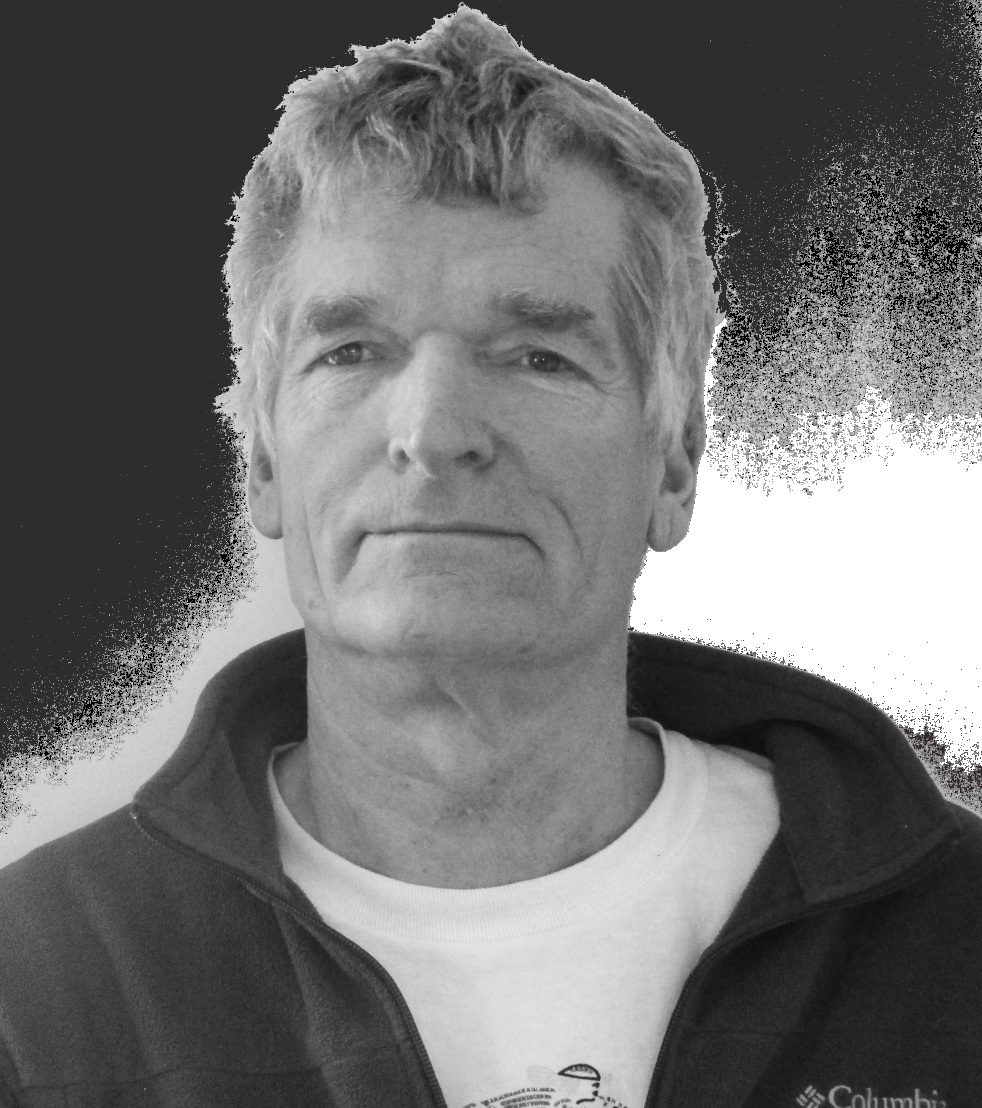
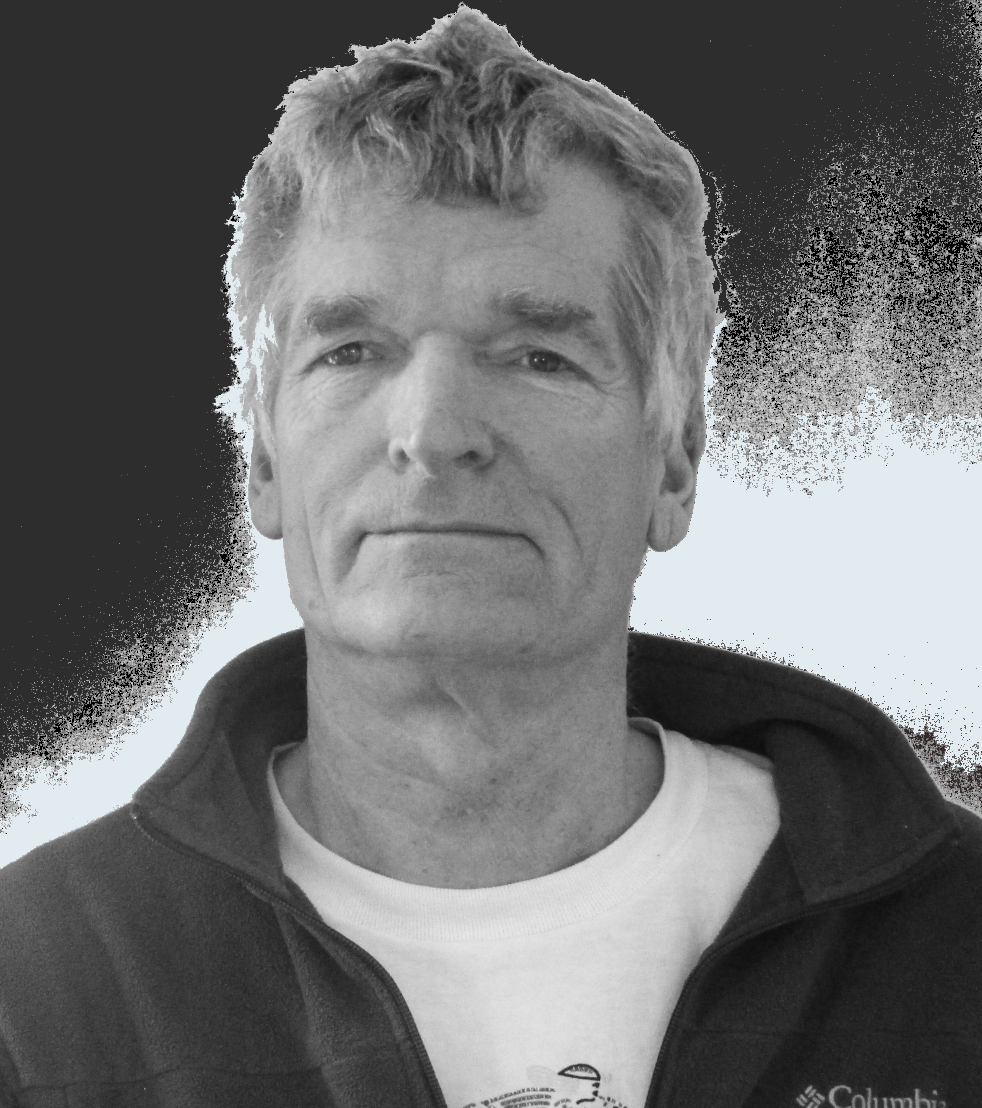
modified:   contact.html 	modified:   css/style.css 	modified:   images/avatar_smoke.jpg 	modified:   images/man_smoke.jpg 	modified:   index.html 	modified:   martin.html 	modified:   password.html 	modified:   photos.html

Changed region(s): [[0.6415, 0.3069, 1.0, 0.7058], [0.0, 0.1841, 0.3055, 0.7978]]

diff --git a/contact.html b/contact.html
@@ -44,11 +44,11 @@
     </div>
     <!-- Navbar (visible on small screens) -->
     <div class="navbar">
-        <a href="#home">accueil</a>
-        <a href="martin.html">martin</a>
-        <a href="photos.html">photos</a>
-        <a href="contact.html">contact</a>
-        <a href="password.html">vidéos</a>
+        <a href="index.html#home">accueil</a>
+        <a href="martin.html#about">martin</a>
+        <a href="photos.html#photos">photos</a>
+        <a href="contact.html#contact">contact</a>
+        <a href="password.html#password">vidéos</a>
     </div>
 
     <!-- start home -->

diff --git a/index.html b/index.html
@@ -44,11 +44,11 @@
     </div>
     <!-- Navbar (visible on small screens) -->
     <div class="navbar">
-        <a href="#home">accueil</a>
-        <a href="martin.html">martin</a>
-        <a href="photos.html">photos</a>
-        <a href="contact.html">contact</a>
-        <a href="password.html">vidéos</a>
+        <a href="index.html#home">accueil</a>
+        <a href="martin.html#about">martin</a>
+        <a href="photos.html#photos">photos</a>
+        <a href="contact.html#contact">contact</a>
+        <a href="password.html#password">vidéos</a>
     </div>
 
     <!-- start home -->

diff --git a/martin.html b/martin.html
@@ -44,11 +44,11 @@
     </div>
     <!-- Navbar (visible on small screens) -->
     <div class="navbar">
-        <a href="#home">accueil</a>
-        <a href="martin.html">martin</a>
-        <a href="photos.html">photos</a>
-        <a href="contact.html">contact</a>
-        <a href="password.html">vidéos</a>
+        <a href="index.html#home">accueil</a>
+        <a href="martin.html#about">martin</a>
+        <a href="photos.html#photos">photos</a>
+        <a href="contact.html#contact">contact</a>
+        <a href="password.html#password">vidéos</a>
     </div>
 
     <!-- start home -->

diff --git a/password.html b/password.html
@@ -44,11 +44,11 @@
     </div>
     <!-- Navbar (visible on small screens) -->
     <div class="navbar">
-        <a href="#home">accueil</a>
-        <a href="martin.html">martin</a>
-        <a href="photos.html">photos</a>
-        <a href="contact.html">contact</a>
-        <a href="password.html">vidéos</a>
+        <a href="index.html#home">accueil</a>
+        <a href="martin.html#about">martin</a>
+        <a href="photos.html#photos">photos</a>
+        <a href="contact.html#contact">contact</a>
+        <a href="password.html#password">vidéos</a>
     </div>
 
     <!-- start home -->

diff --git a/photos.html b/photos.html
@@ -44,11 +44,11 @@
     </div>
     <!-- Navbar (visible on small screens) -->
     <div class="navbar">
-        <a href="#home">accueil</a>
-        <a href="martin.html">martin</a>
-        <a href="photos.html">photos</a>
-        <a href="contact.html">contact</a>
-        <a href="password.html">vidéos</a>
+        <a href="index.html#home">accueil</a>
+        <a href="martin.html#about">martin</a>
+        <a href="photos.html#photos">photos</a>
+        <a href="contact.html#contact">contact</a>
+        <a href="password.html#password">vidéos</a>
     </div>
 
     <!-- start home -->

diff --git a/css/style.css b/css/style.css
@@ -2,7 +2,7 @@
 :root {
     --black-color: #000;
     --dark-color: #09483b;
-    --light-color: #bae3ea;
+    --light-color: #e2ebef;
     --gray-color: #a1a1a1;
     --white-color: #fff;
     --bleu-comi: #06559d;
@@ -163,10 +163,6 @@ h2, h3 {
 .home .container img {
     max-width: 100%
 }
-img {
-    max-width: 60%
-}
-
 
 /* end home */
 
